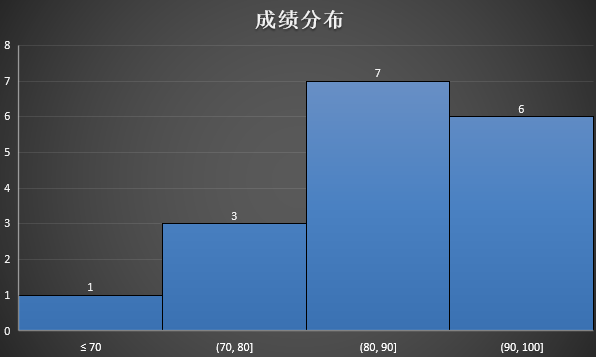
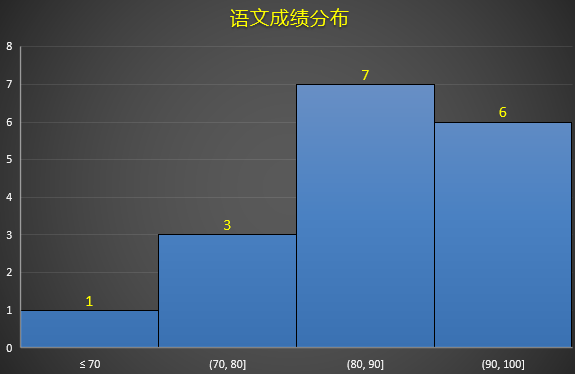
oa

Changed region(s): [[0.0, 0.0924, 1.0, 0.986], [0.3843, 0.0, 0.6209, 0.0924]]

diff --git a/office/einsert.html b/office/einsert.html
@@ -66,51 +66,66 @@
     <dl>
       <dt>内容 Contents</dt>
       <dd>表格 → 数据透视表</dd>
-      <dd>图表</dd>
-      <dd>迷你图</dd>
+      <dd>图表 Charts</dd>
+      <dd>迷你图 Sparklines</dd>
       <!-- <dd>筛选 → 切片器</dd> -->
     </dl>
-    <div class="chap">表格 → 数据透视表</div>
+    <div class="chap">表格 Table</div>
     <dl>
+      <dt>表格 Table</dt>
+      <dd>Excel 本身就是一张巨大的表格</dd>
+      <dd>为了更好的操作数据，可以将这个普通的表格转换为超级表</dd>
+      <dd>快捷键： Ctrl + T</dd>
+      <dd>超级表有独特的样式和功能
+        <p>排序</p>
+        <p>筛选</p>
+        <p>追加数据时，自动应用样式</p>
+        <p>...</p>
+      </dd>
+      <dt>数据透视表 PivotTable</dt>
       <figure>
         <div class="img-tbl"></div>
         <figcaption>表格</figcaption>
       </figure>
-      <dd>透视表 PivotTable 本质上还是一个表，由"行 Rows"、"列 Columns"和"&Sigma;值 Values"组成，另外还多了一个"筛选 Filters"</dd>
+      <dd>透视表本质上还是一个表，由"行 Rows"、"列 Columns"和"&Sigma;值 Values"组成，另外还多了一个"筛选 Filters"</dd>
       <dd>功能非常强大的分析工具，特别适合两个维度的分类汇总，如按月、季度、地区等</dd>
       <dd>通过拖拽，从不同角度观察/透视数据</dd>
       <dd>抛弃函数的使用去实现目标 - "表格"</dd>
       <dd>难点在于对数据的理解、需求不明晰</dd>
       <dd>实际上处理的是原始数据 - 流水账。。。</dd>
-      <dt>图表组成</dt>
-      <dd>行区域</dd>
-      <dd>列区域</dd>
-      <dd>值区域</dd>
-      <dd>过滤器</dd>
-      <dt>要求</dt>
-      <dd>有标题行，且是第一行</dd>
-      <dd>必须是一维表</dd>
-      <dd>不能有空行</dd>
-      <dd>不能有空单元格</dd>
-      <dd>不能有合并单元格</dd>
-      <dd>建议从超级表开始</dd>
-      <dt>常用操作</dt>
-      <dd>值字段设置</dd>
-      <dd>排序</dd>
-      <dd>值汇总依据</dd>
-      <dd>值显示方式</dd>
-      <dd>组合</dd>
-      <dd>命名透视表</dd>
-      <dd>移动透视表</dd>
-      <dd>删除透视表：选择透视表 → 按删除键 delete 删除</dd>
-      <dd>推迟布局更新：大数据量时，请开启。。。否则可能卡到你怀疑人生；但是部分功能会被暂时被限制</dd>
-      <dd>手动刷新：数据源部分值变化后，默认不会自动更新，需要手动刷新；可以使用"数据透视表分析"的刷新或选项卡"数据"中的刷新</dd>
-      <dd>自动刷新：设置透视表"选项" → "数据" → "每次打开文件时刷新数据"</dd>
-      <dd>字段设置、字段设置</dd>
-      <dt>一般过程</dt>
-      <dd>选择数据</dd>
-      <dd>指定图表放置位置：新工作表或现有工作表</dd>
-      <dd>透视数据</dd>
+      <dd>图表组成
+        <p>行区域</p>
+        <p>列区域</p>
+        <p>值区域</p>
+        <p>过滤器</p>
+      </dd>
+      <dd>要求
+        <p>有标题行，且是第一行</p>
+        <p>必须是一维表</p>
+        <p>不能有空行</p>
+        <p>不能有空单元格</p>
+        <p>不能有合并单元格</p>
+        <p>建议从超级表开始</p>
+      </dd>
+      <dd>常用操作
+        <p>值字段设置</p>
+        <p>排序</p>
+        <p>值汇总依据</p>
+        <p>值显示方式</p>
+        <p>组合</p>
+        <p>命名透视表</p>
+        <p>移动透视表</p>
+        <p>删除透视表：选择透视表 → 按删除键 delete 删除</p>
+        <p>推迟布局更新：大数据量时，请开启。。。否则可能卡到你怀疑人生；但是部分功能会被暂时被限制</p>
+        <p>手动刷新：数据源部分值变化后，默认不会自动更新，需要手动刷新；可以使用"数据透视表分析"的刷新或选项卡"数据"中的刷新</p>
+        <p>自动刷新：设置透视表"选项" → "数据" → "每次打开文件时刷新数据"</p>
+        <p>字段设置、字段设置</p>
+      </dd>
+      <dd>一般过程
+        <p>选择数据</p>
+        <p>指定图表放置位置：新工作表或现有工作表</p>
+        <p>透视数据</p>
+      </dd>
       <div class="demo">从性别和婚姻状况分析客户的平均总消费金额；更多案例，请访问 <a
           href="https://www.exceldemy.com/5-pivottable-tricks-to-unlock-deeper-insights-in-your-data/">PivotTable</a>
       </div>
@@ -155,7 +170,7 @@
         <p>删除空白行：全选数据 → 定位 Ctrl + G → 定位条件 → 空值 → 右键删除 → 整行</p>
       </div>
     </dl>
-    <div class="chap">图表</div>
+    <div class="chap">图表 Charts</div>
     <dl>
       <dd>数据可视化的得力工具</dd>
       <dd>充分利用动态选项卡"图表工具"的"图表设计"和"格式"</dd>
@@ -347,14 +362,17 @@
       <dd>只接受纯数值区域</dd>
       <dd>分箱范围有数据决定</dd>
       <dd>下溢箱 ≠ 起始分箱点；而是把所有小于该数值的数据，扔进一个单独的分箱</dd>
-      <dd>样本空间通常比较大，如不少于50个，才具备统计意义</dd>
       <dd>x坐标：箱的宽带、箱的组数、区间、组</dd>
       <dd>y坐标：频点、频数、边界</dd>
+      <dd>注意：
+        <p>样本空间通常比较大，如不少于50个，才具备统计意义</p>
+        <p>仅仅适合统计分级单列数据</p>
+      </dd>
       <div class="demo"><a
           href="https://view.officeapps.live.com/op/view.aspx?src=https://glplaman.github.io/office/data/学生成绩.xlsx">学生高考成绩分布
         </a></div>
       <ol>
-        <li>选择所有分数</li>
+        <li>选择语文列的数据</li>
         <li>插入直方图</li>
         <li>显示数据标签 → 外</li>
         <li>选择 x 轴，按 Ctrl + 1，打开坐标轴格式对话框</li>
@@ -363,16 +381,16 @@
         <li>修改标题为成绩分布</li>
         <figure>
           <img src="./imgs/chart9.png" alt="">
-          <figcaption>学生高考成绩分布</figcaption>
+          <figcaption>语文成绩分布</figcaption>
         </figure>
         <div class="demo">障眼法</div>
-        <dd>在第一个数据列下放增加一个小于60的数据</dd>
+        <dd>在语文数据列下放增加一个小于60的数据</dd>
         <dd>指定下溢 60</dd>
         <dd>隐藏该数据条</dd>
         <dd>隐藏该数据标签</dd>
         <figure>
           <img src="./imgs/chart10.png" alt="">
-          <figcaption>学生高考成绩分布</figcaption>
+          <figcaption>语文成绩分布</figcaption>
         </figure>
       </ol>
       <div class="demo">身高分布</div>
@@ -391,7 +409,7 @@
       <div class="demo">定制多个环型数据</div>
       <dt>数据透视图</dt>
     </dl>
-    <div class="chap">迷你图</div>
+    <div class="chap">迷你图 Sparklines</div>
     <dl>
       <dd>图表的迷你版式，包括：
         <p>折线</p>
@@ -403,38 +421,39 @@
         <figcaption>迷你图</figcaption>
       </figure>
       <div class="demo">迷你折线图 - 自己创建数据</div>
-      <dd>创建工作簿并以学号+姓名命名，如2023张三.xlsx</dd>
-      <dd>在默认的工作表 A1 单元格输入分公司</dd>
-      <dd>在 B1 单元格输入"一月"</dd>
-      <dd>将光标定位在B1右下角，变为十字形后，按住鼠标左键向右拖动至十二月</dd>
-      <dd>在 A2-A5 分别输入分公司名称</dd>
-      <dd>利用 randbetween 创建假数据：在数据区域下方较远处某个单元格，输入，生成60到100的随机数</dd>
-      <pre>=randbetween(60,100)</pre>
-      <dd>同样，向右拖动，生成12个数据</dd>
-      <dd>选中这12个数据，复制粘贴给第一个分公司；仅仅粘贴数字</dd>
-      <dd>依次操作，为其他分公司粘贴随机数字</dd>
-      <dd>在数据区域最后一列 N1 添加标题"走势图"</dd>
-      <dd>定位在 N2单元格 → "插入" → "迷你图" → "折线"，数据范围选择左侧的 12 个数据项并确认</dd>
-      <dd>可以先选择数据再选择插入位置；也可以先选择插入位置，再选择数据</dd>
-      <figure>
-        <img src="./imgs/ins8.png" alt="">
-        <figcaption>插入迷你图</figcaption>
-      </figure>
-      <dd>设置折线的高、低点</dd>
-      <figure>
-        <img src="./imgs/ins10.png" alt="">
-        <figcaption>设置迷你图</figcaption>
-      </figure>
-      <dd>向下拖动，快速完成其他数据行的折线图创建</dd>
-      <dd>其他格式自行设计：迷你图颜色、标记颜色等</dd>
-      <dd>选择其他类型的迷你图，查看效果</dd>
+      <ol>
+        <li>创建工作簿并以学号+姓名命名，如2023张三.xlsx</li>
+        <li>在默认的工作表 A1 单元格输入分公司</li>
+        <li>在 B1 单元格输入"一月"</li>
+        <li>将光标定位在B1右下角，变为十字形后，按住鼠标左键向右拖动至十二月</li>
+        <li>在 A2-A5 分别输入分公司名称</li>
+        <li>利用 randbetween()函数创建假数据：在数据区域下方较远处某个单元格，输入下面的公式，生成 60 到 100 的随机数</li>
+        <pre>=randbetween(60,100)</pre>
+        <li>同样，向右拖动，生成12个数据</li>
+        <li>选中这12个数据，复制粘贴给第一个分公司；仅仅粘贴数字</li>
+        <li>依次为其他分公司粘贴随机数字；不需要重复复制，只需重复粘贴就可以</li>
+        <li>在数据区域最后一列 N1，输入标题"走势图"</li>
+        <li>定位在 N2单元格 → "插入" → "迷你图" → "折线"，数据范围选择左侧的 12 个数据项并确认；可以先选择数据再选择插入位置；也可以先选择插入位置，再选择数据</li>
+        <figure>
+          <img src="./imgs/ins8.png" alt="">
+          <figcaption>插入迷你图</figcaption>
+        </figure>
+        <li>设置折线的高、低点</li>
+        <figure>
+          <img src="./imgs/ins10.png" alt="">
+          <figcaption>设置迷你图</figcaption>
+        </figure>
+        <li>向下拖动，快速完成其他数据行的折线图创建</li>
+        <li>其他格式自行设计：迷你图颜色、标记颜色等</li>
+        <li>选择其他类型的迷你图，查看效果</li>
+        <figure>
+          <img src="./imgs/chart5.png" alt="">
+          <figcaption>迷你折线图参考效果</figcaption>
+        </figure>
+      </ol>
       <div>如何删除迷你图<span class="iconfont icon-help"></span></div>
-      <figure>
-        <img src="./imgs/chart5.png" alt="">
-        <figcaption>迷你折线图参考效果</figcaption>
-      </figure>
     </dl>
-    <div class="chap">其它分组</div>
+    <div class="chap">其它分组 Other</div>
     <dl>
       <dd>同Word操作</dd>
       <figure>

diff --git a/office/ehome.html b/office/ehome.html
@@ -86,12 +86,17 @@
       </figure>
       <dt>字体 Font</dt>
       <dd>基本操作同 Word</dd>
+      <dd>注意：Excel 中没有段落，边框在这里设置</dd>
       <figure>
         <div class="img-font"></div>
         <figcaption>字体</figcaption>
       </figure>
       <dt>对齐方式 Alignment</dt>
       <dd>基本操作同 Word</dd>
+      <dd>水平居中
+        <p>不使用公式，仅仅布局 → 合并后居中</p>
+        <p>使用公式 → 跨列居中</p>
+      </dd>
       <figure>
         <div class="img-align"></div>
         <figcaption>对齐方式</figcaption>
@@ -109,8 +114,27 @@
         <img src="./imgs/cell0.png" alt="">
         <figcaption>数字 → 单元格格式</figcaption>
       </figure>
+      <dd>数字 Number
+        <p>默认右对齐</p>
+      </dd>
+      <dd>文本 Text
+        <p>默认左对齐</p>
+      </dd>
+      <dd>日期 Date
+        <p>特殊的数字</p>
+        <p>整数</p>
+        <p>从 1900年1月1日 开始的天数</p>
+      </dd>
+      <dd>时间 Time
+        <p>特殊的数字</p>
+        <p>小数</p>
+        <p>当前时间占一天的比例</p>
+      </dd>
+      <dd>货币符号 Currency</dd>
+      <dd>百分比 Percentage</dd>
       <dt>样式 Styles</dt>
-      <dd>条件格式；功能非常强大 <span class="iconfont icon-thumbup"></span></dd>
+      <dd>根据数据特点，渲染指定样式</dd>
+      <dd>功能非常强大 <span class="iconfont icon-thumbup"></span></dd>
       <figure>
         <div class="img-style"></div>
         <figcaption>样式</figcaption>
@@ -142,6 +166,16 @@
     </dl>
     <div class="chap">练习 Drill</div>
     <dl>
+      <div class="demo">突出显示成绩不及格的数据</div>
+      <ol>
+        <li>选择总分列或评价分列的所有成绩数据</li>
+        <li>条件格式 → 突出显示单元格规则 → 小于，输入 60 并确定</li>
+      </ol>
+      <div class="demo">突出显示前3名同学的成绩</div>
+      <ol>
+        <li>选择总分列或评价分列的所有成绩数据</li>
+        <li>条件格式 → 最前/最后规则 → 前 10 项，修改 10 为 3 并确定</li>
+      </ol>
       <div class="demo">数据条</div>
       <dd>使用多个数据</dd>
       <dd>数据：0.5 = 50%</dd>

diff --git a/office/excel.html b/office/excel.html
@@ -63,11 +63,15 @@
           </tr>
           <tr>
             <td>Alt + =</td>
-            <td>求和</td>
+            <td>快速求和</td>
           </tr>
           <tr>
             <td>Alt + F1</td>
             <td>图表</td>
+          </tr>
+          <tr>
+            <td>Alt + Enter</td>
+            <td>单元格换行</td>
           </tr>
           <tr>
             <td>Alt + ;</td>
